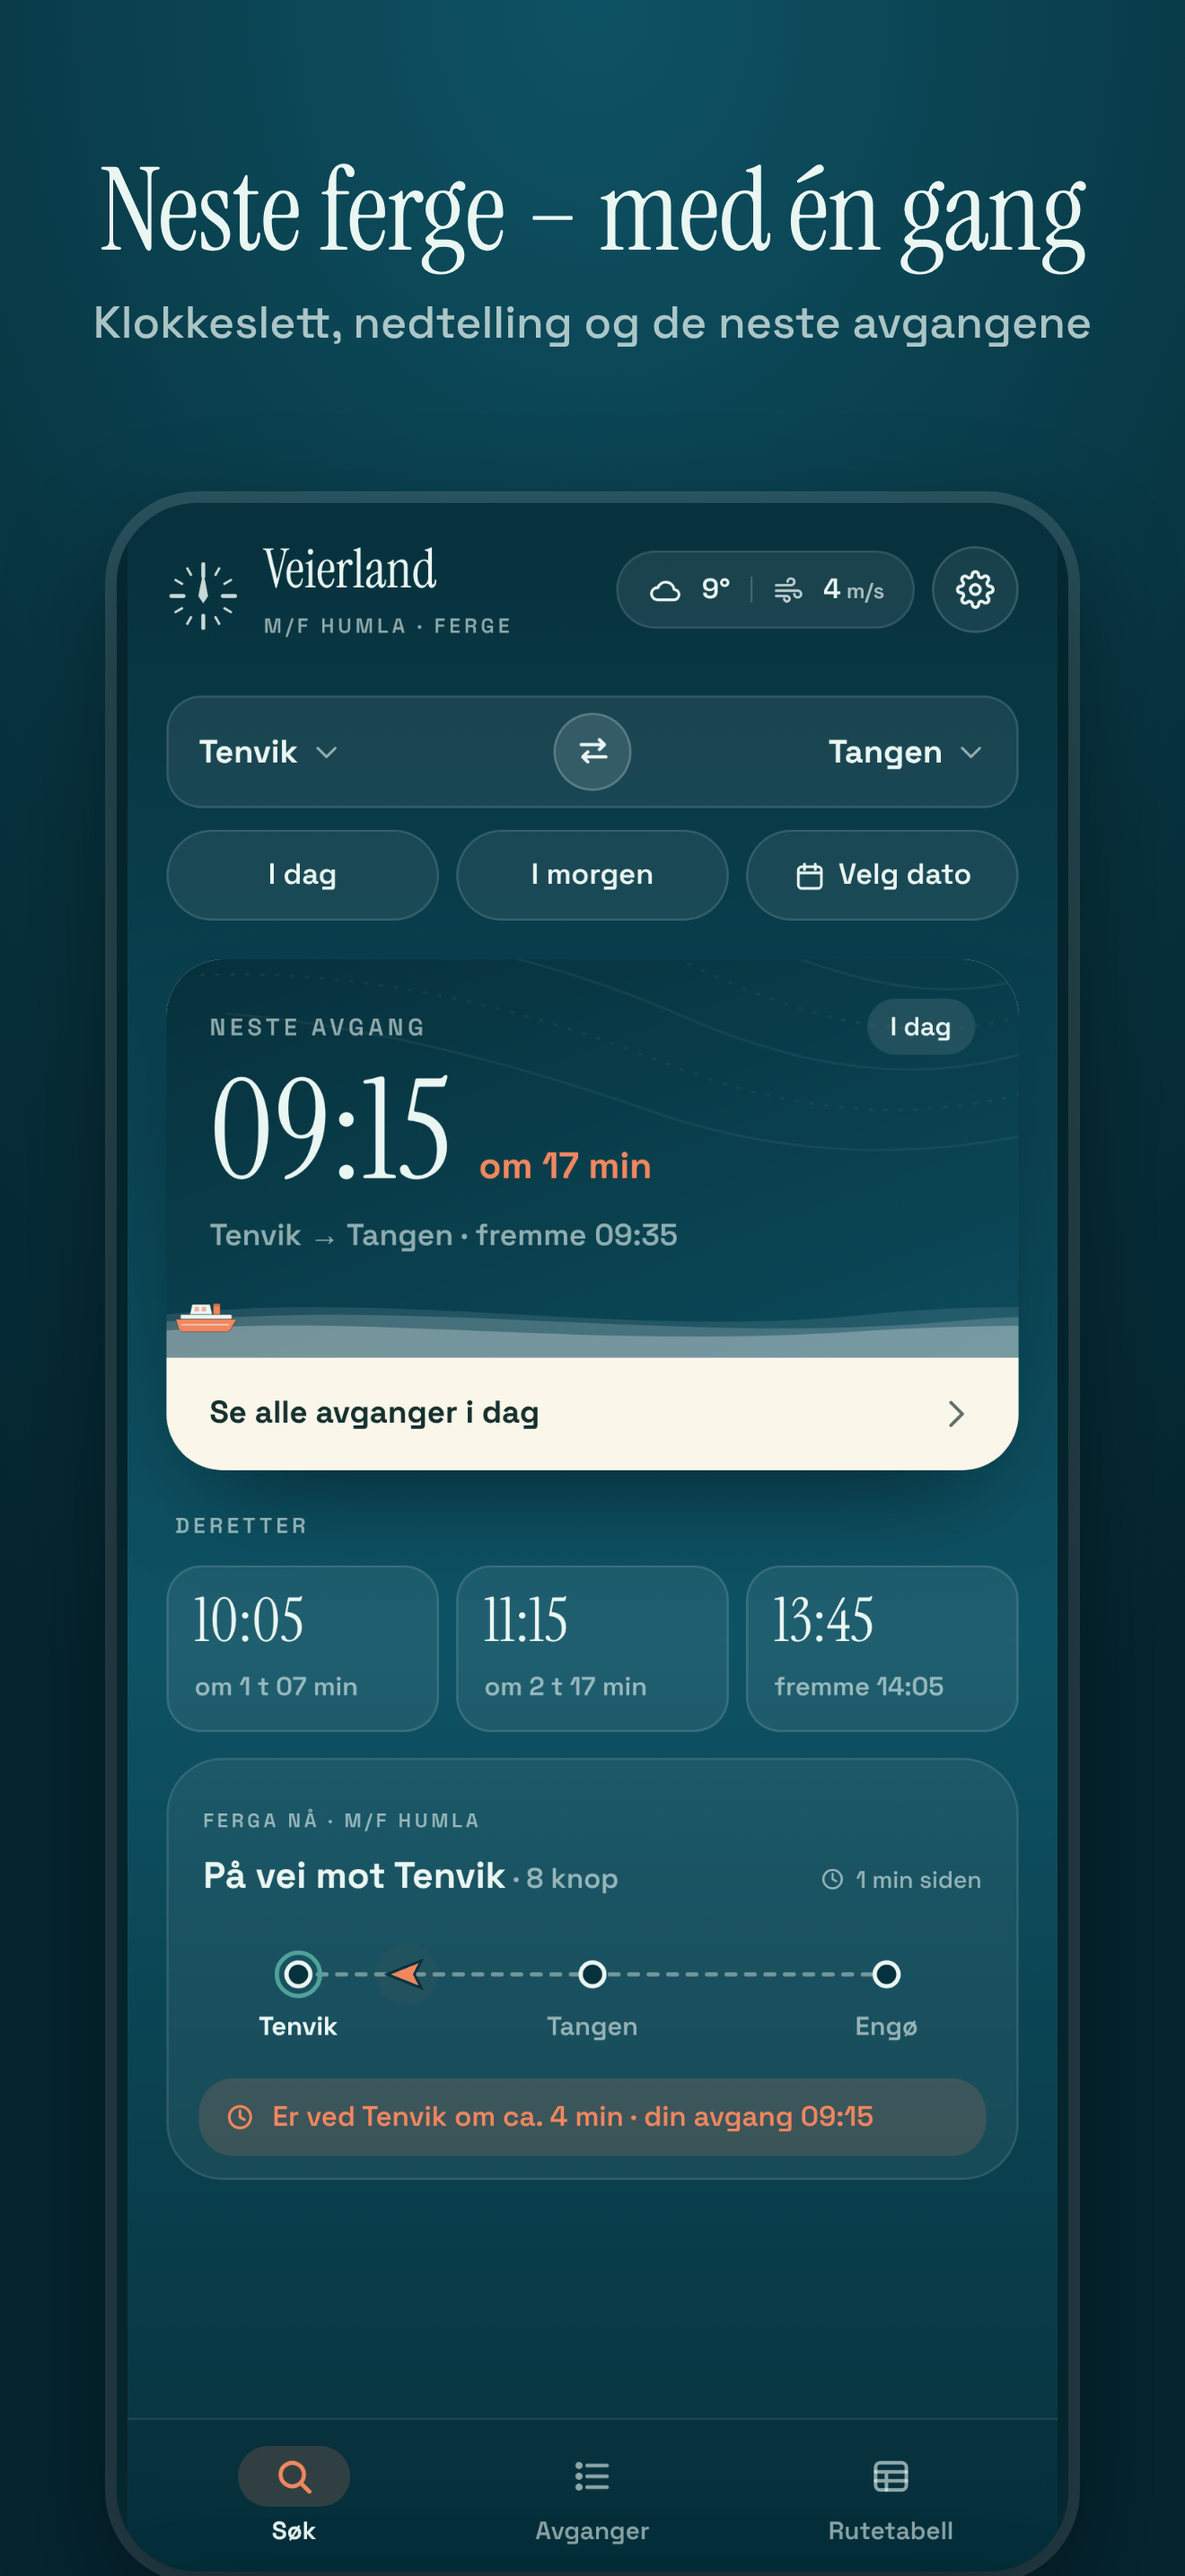
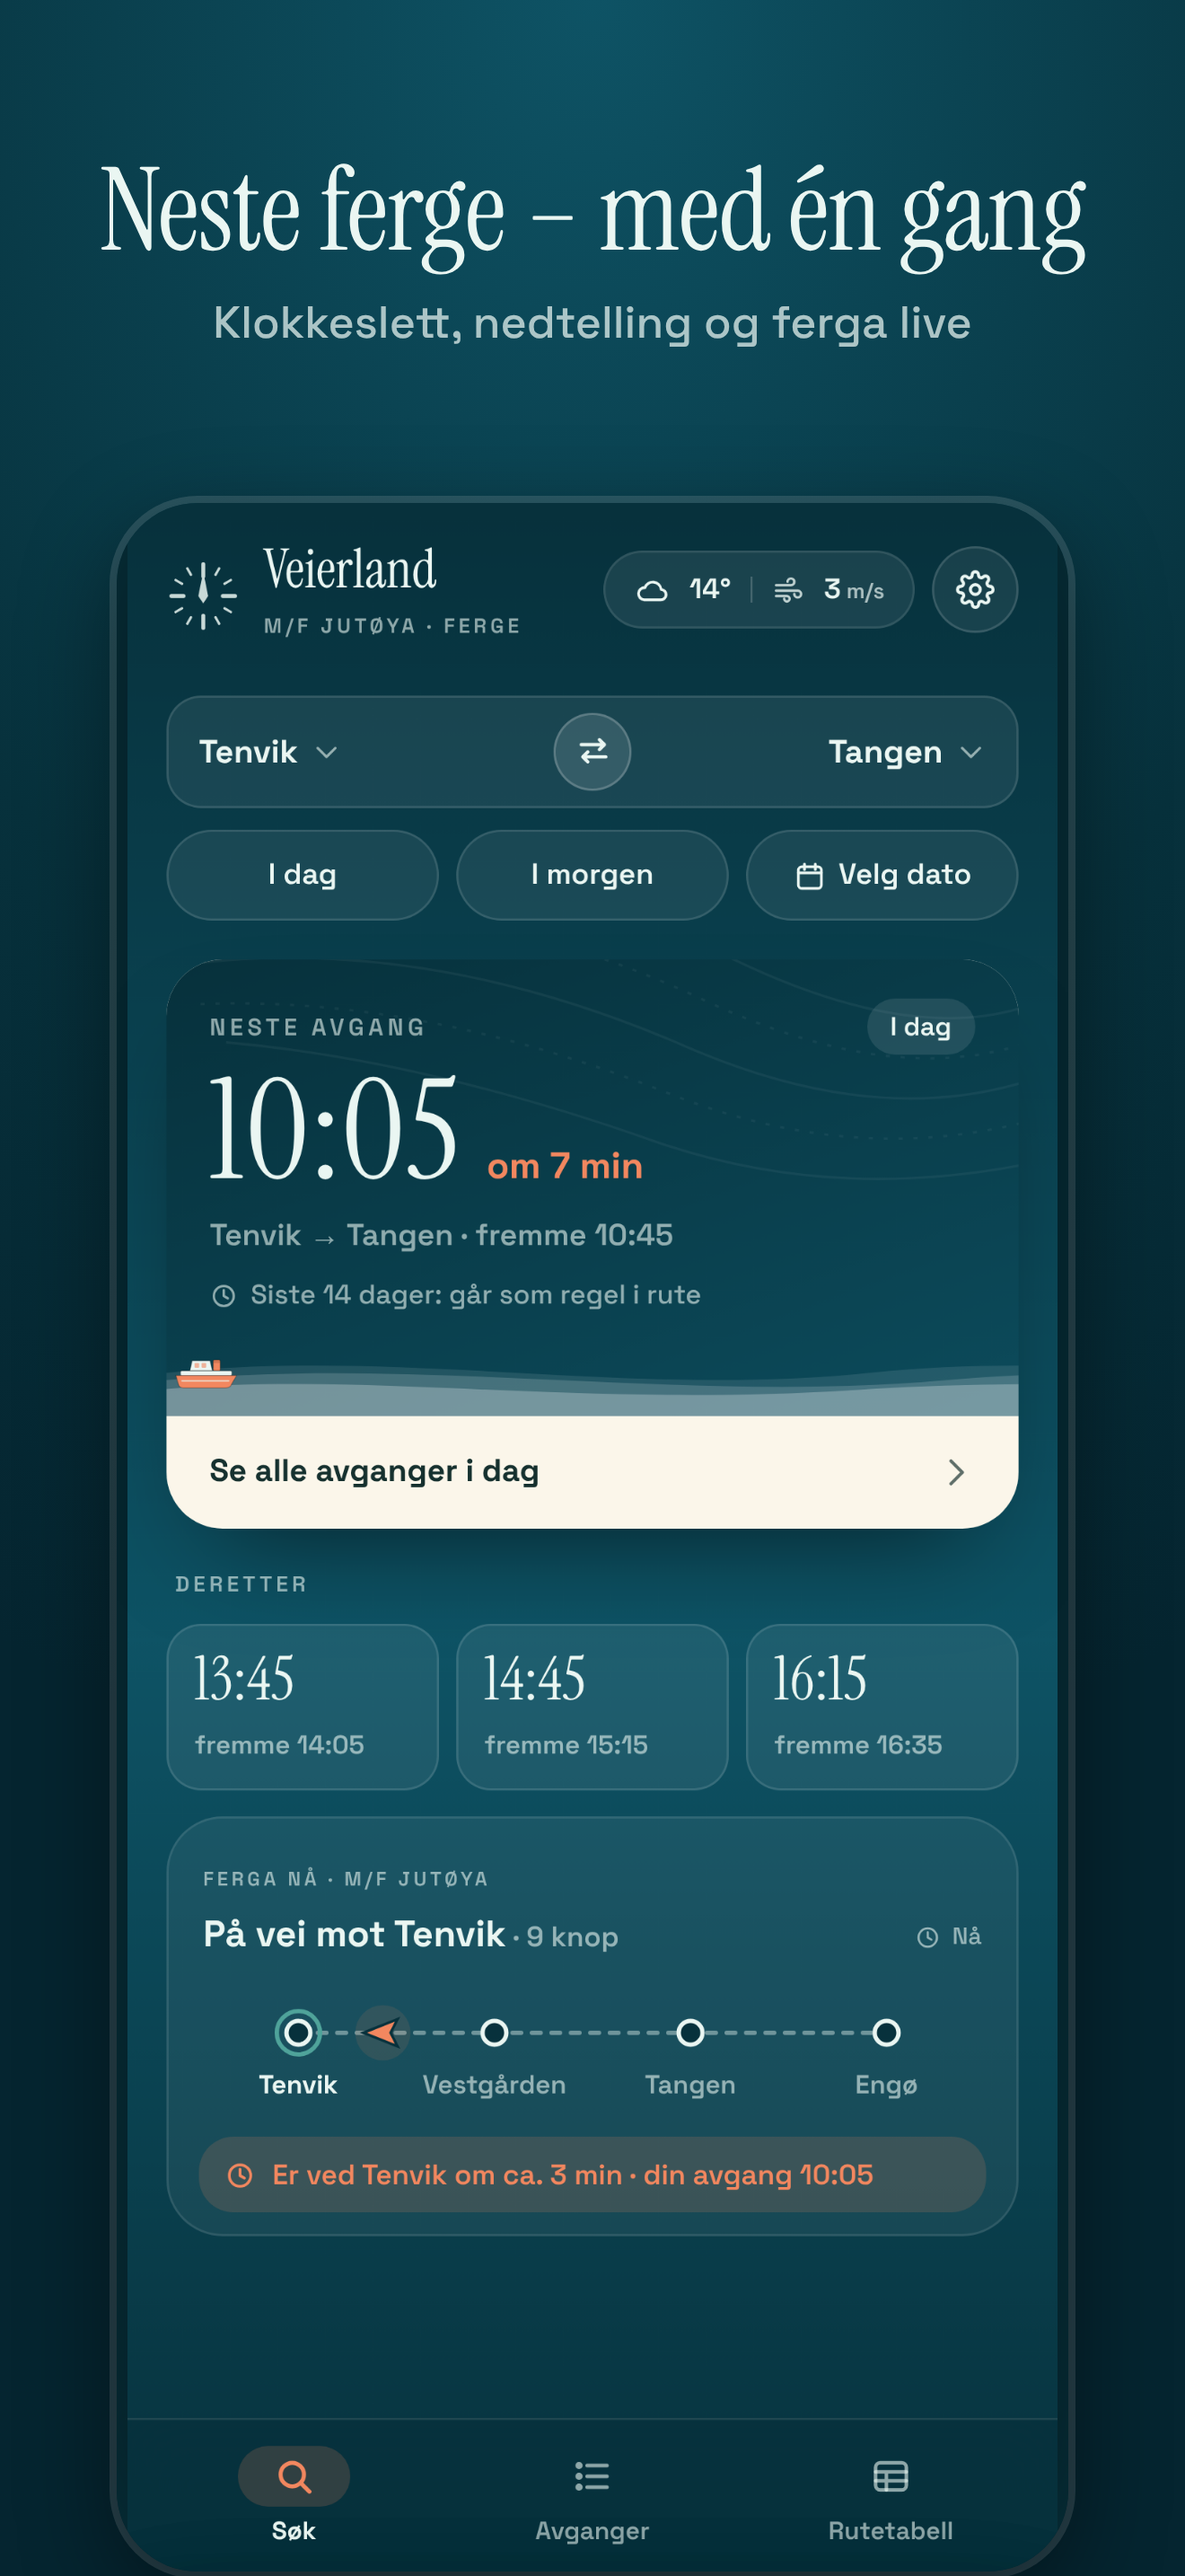
Nye App Store-bilder for iPhone og iPad
- iPhone 6,9" (1320 × 2868): hjem, kart, detalj, avganger, rutetabell og
  mørkt tema. Viser nå kartet med ferga og andre båter.
- iPad 13" (2752 × 2064, liggende): passasjer-dashbord, fergedisplay,
  nattmodus og detaljer for en avgang.
- Skriptene som lager bildene ligger i skillet (scripts/butikkbilder).

Claude-Session: https://claude.ai/code/session_01R8BTGZTphqQyi6q3tQm7Lq

diff --git a/.claude/skills/veierland-ferge/references/publisering.md b/.claude/skills/veierland-ferge/references/publisering.md
@@ -100,5 +100,5 @@ Hele oppskriften, butikktekster, URL-er og skjermbilder står i `store/README.md
 - **Google Play** (personlig konto):
   - Først en lukket test med minst 12 testere i 14 dager. Først da kan brukeren søke om produksjonstilgang.
   - Bilder og ikon ligger i `store/google-play/`.
-- **Nye skjermbilder til butikkene**: iPhone 1320 × 2868, Play-telefon 1080 × 1920, Play-banner 1024 × 500 og ikon 512 × 512. Ta dem fra det bygde nettstedet med Playwright, som i `scripts/skjermbilder.mjs`, med riktig størrelse og `deviceScaleFactor`.
+- **Nye skjermbilder til butikkene**: iPhone 1320 × 2868, Play-telefon 1080 × 1920, Play-banner 1024 × 500 og ikon 512 × 512. iPad 13" 2752 × 2064. App Store-bildene (iPhone og iPad, med overskrift) lages med `scripts/butikkbilder/ta-bilder.mjs` og `sett-sammen.mjs` (bruk i toppen av filene). Play-bildene (1080 × 1920) er eldre og viser ikke kartet ennå; de kan lages på samme måte med visning 412 × 760.
 - **Ny versjon av selve appen** (ikke bare rutetider): øk `version` i `package.json`, kjør workflowen og send inn den nye versjonen i begge butikkene.

diff --git a/store/README.md b/store/README.md
@@ -3,7 +3,7 @@
 Alt du trenger for å publisere appen: butikktekster, bilder og en steg-for-steg-oppskrift.
 Appen bygges i skyen med GitHub Actions, så du trenger ingen Mac.
 
-- Bilder til App Store: `store/app-store/` (iPhone 6,9", 1320 × 2868)
+- Bilder til App Store: `store/app-store/` (iPhone 6,9", 1320 × 2868) og `store/app-store-ipad/` (iPad 13", 2752 × 2064, liggende)
 - Bilder til Google Play: `store/google-play/` (telefon 1080 × 1920, ikon 512 × 512, banner 1024 × 500)
 
 ---
@@ -45,7 +45,8 @@ Appen bygges i skyen med GitHub Actions, så du trenger ingen Mac.
 
 ### 6. Fyll ut butikksiden og send inn
 I App Store Connect → appen → **iOS App 1.0**:
-- **Screenshots** (iPhone 6,9"): de fem bildene i `store/app-store/`
+- **Screenshots** (iPhone 6,9"): de seks bildene i `store/app-store/`
+- **Screenshots** (iPad 13"): de fire bildene i `store/app-store-ipad/`
 - **Tekster**: se «Butikktekster» lenger ned
 - **Build**: velg bygget fra TestFlight
 - **App Information**: kategori, personvern-URL, aldersgrense (svar «None»/«Nei» på alt → 4+)
